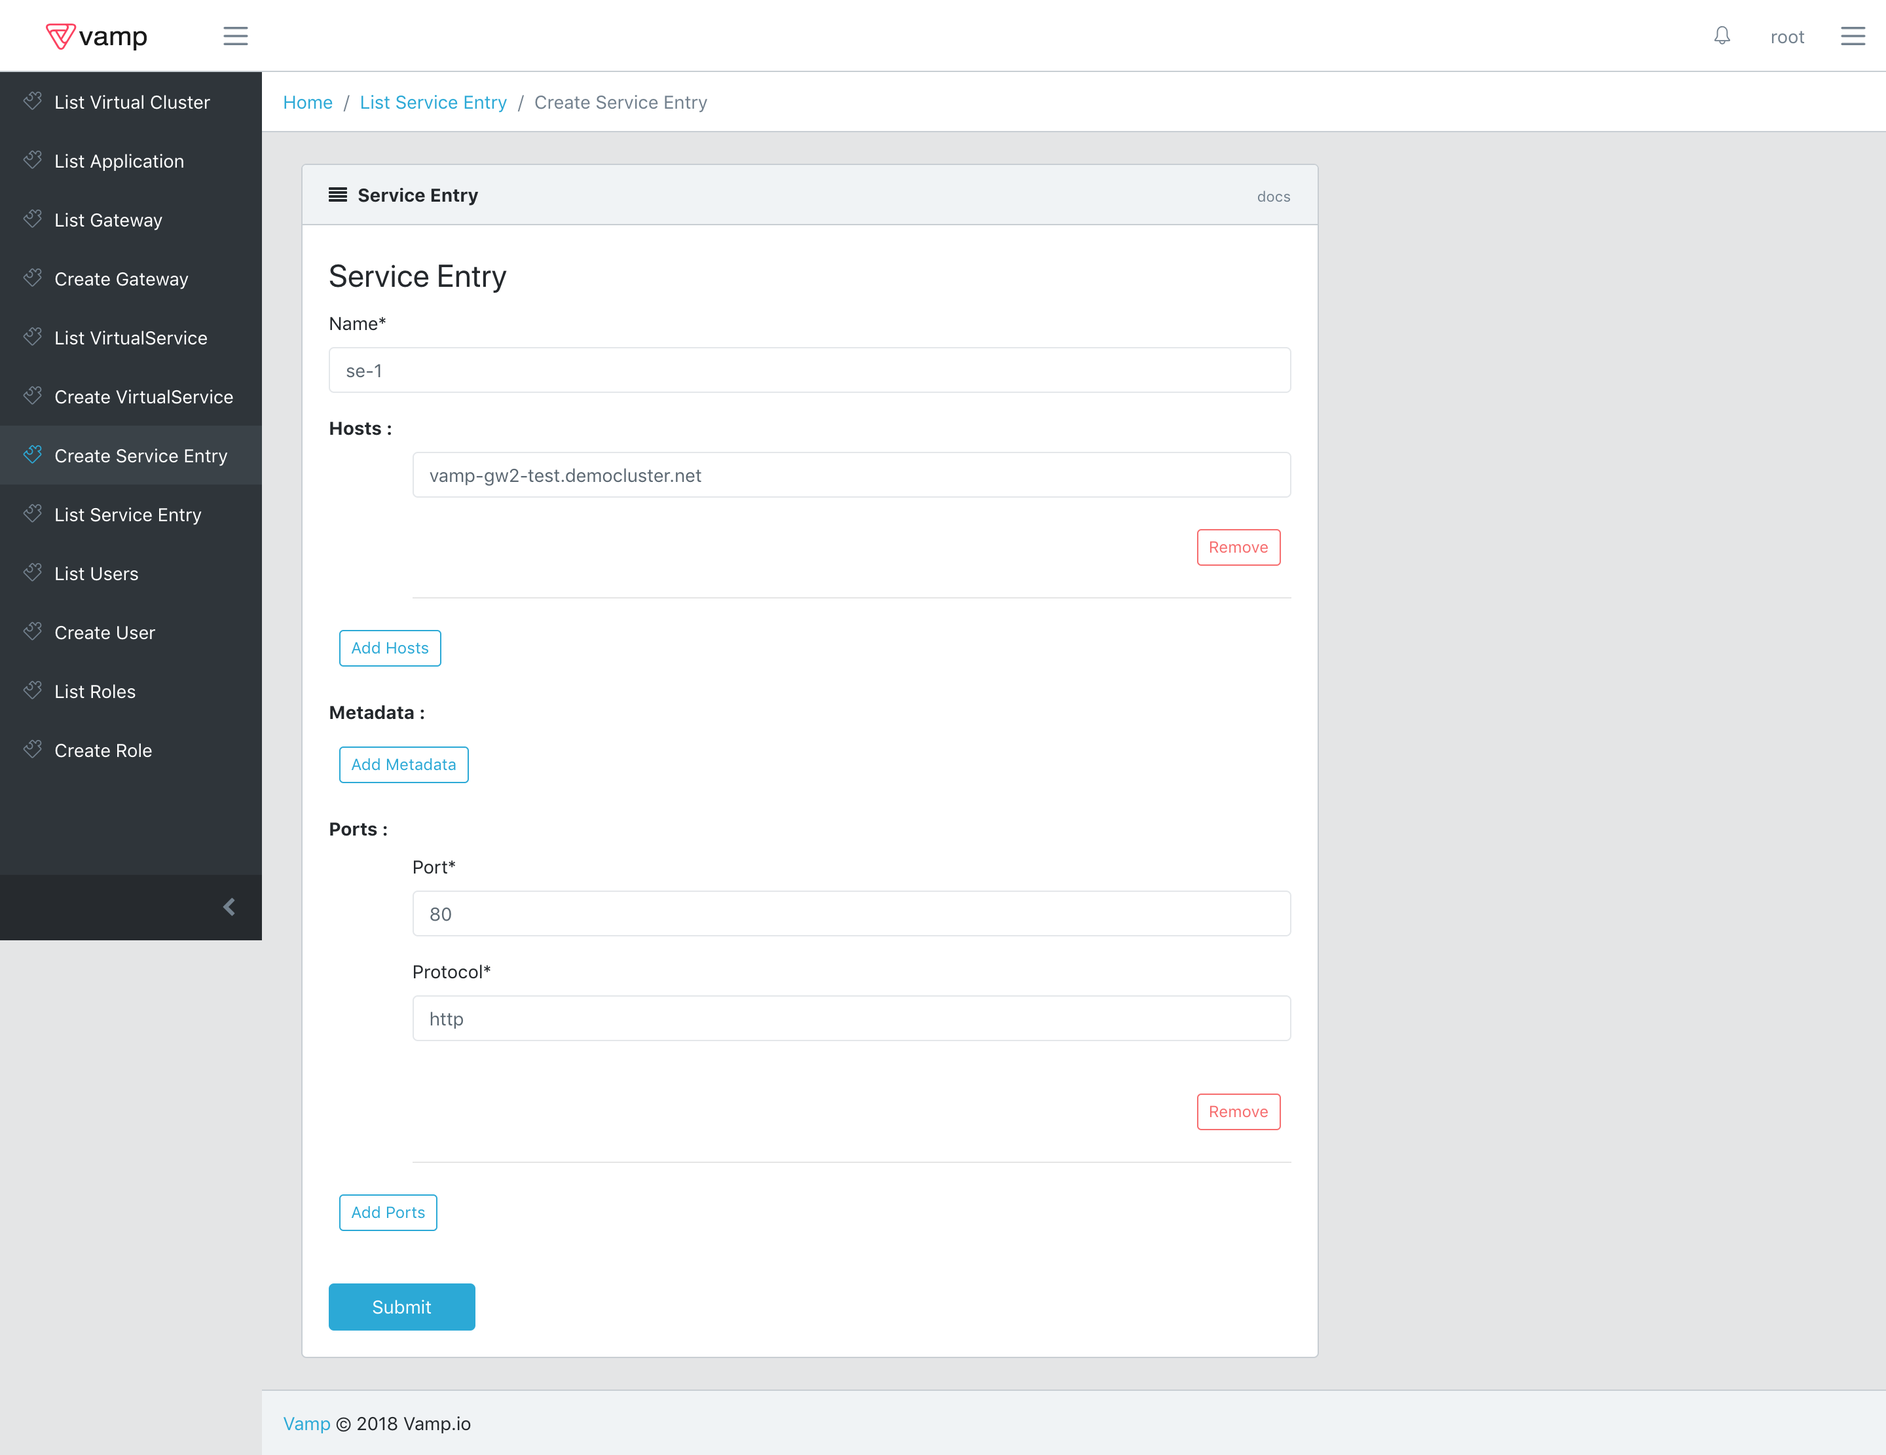
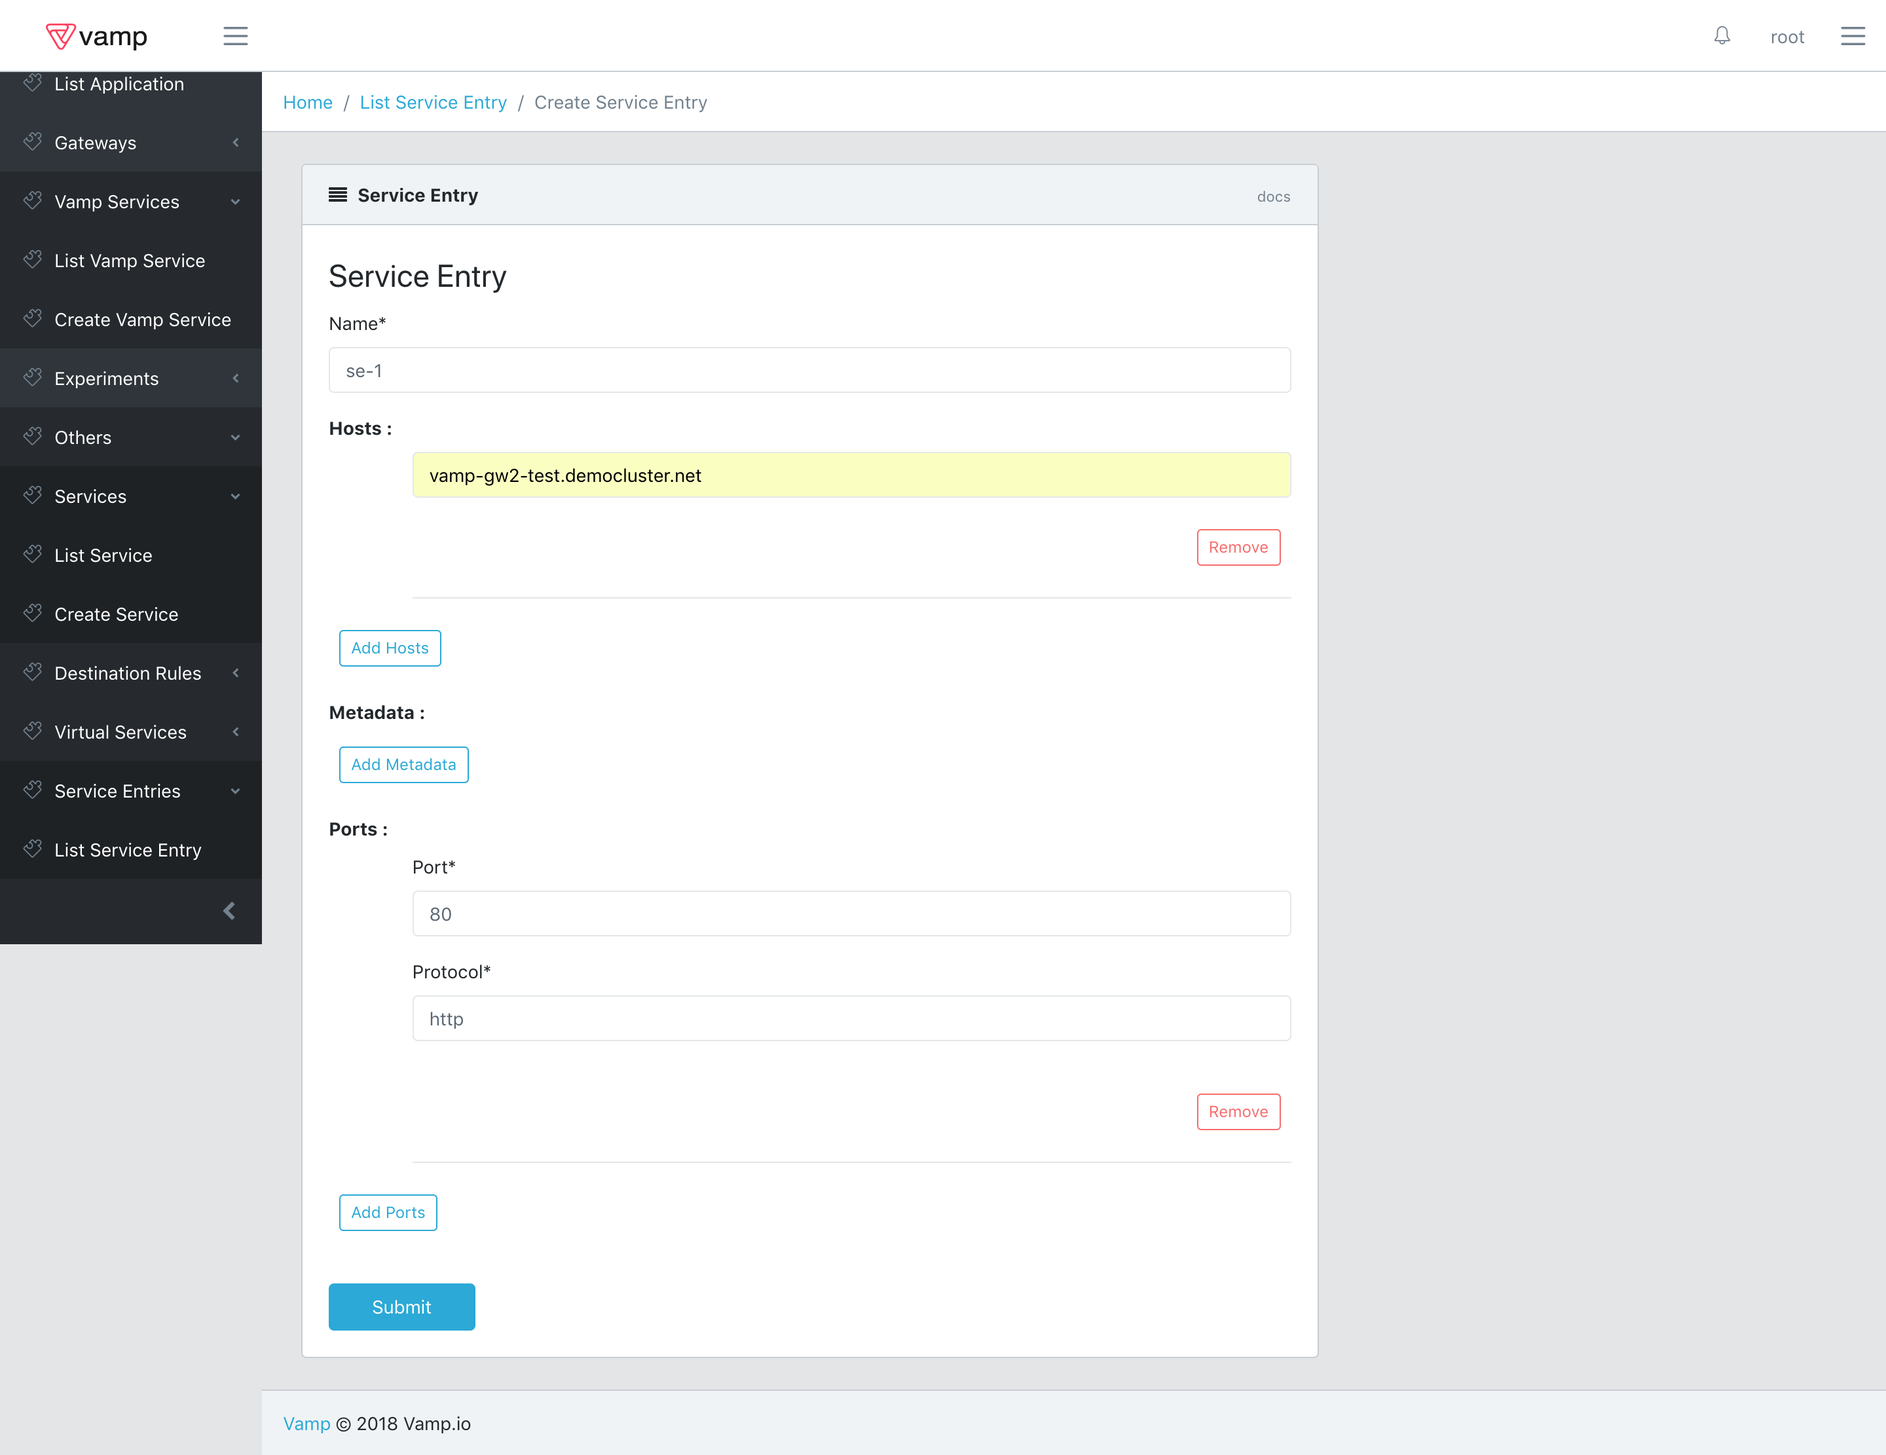
Updated readme and images to latest version

Changed region(s): [[0.0, 0.0311, 0.1562, 0.559], [0.2188, 0.3105, 0.6875, 0.3416], [0.0938, 0.6211, 0.125, 0.6521]]

diff --git a/README.md b/README.md
@@ -67,9 +67,9 @@ Running Vamp Lamia inside a cluster is pretty straightforward and it just requir
 ./vamp-bootstrap.sh
 ```
 
-Enter password when asked, password will not be visible and it will be asked twice.
+Enter a new password when asked and re-enter it for confirmation.
 
-Installer will tell you where to connect like:
+When the installation procedure is complete, the installer will tell you where to connect by printing an url similar to the one shown below:
 
 ```
 use http://111.222.333.444:8888/ui/#/login to connect
@@ -81,7 +81,7 @@ If you need to retrieve the IP afterwards you can do it via kubectl
 kubectl get svc vamp -n=vamp-system
 ```
 
-Copy the url and paste on your browser to login and start using.
+Copy the url and paste it on your browser to login and start using.
 
 The default username is root.
 
@@ -100,7 +100,7 @@ Once installed inside the cluster Vamp Lamia will automatically create a
 
 #### Out of Cluster installation
 
-If you'd rather have Vamp Lamia running outside the cluster, you can do that by running:
+If you'd rather have Vamp Lamia run outside the cluster, you should instead run:
 
 ```
 ./vamp-bootstrap.sh --outcluster  --dburl mongodb://someurl --dbname db-name
@@ -117,7 +117,7 @@ If you are instead running Lamia outside a Cluster there are a few extra steps y
 
 First of all you need to create a Project.
 A Lamia Project is simply an abstraction grouping one of more Clusters.
-Youc an create a Project by clicking on Create Project and filling out the form below, which, at this time, requires only the Project's name to be specified.
+You can create a Project by clicking on Create Project and filling out the form below, which, at this time, requires only the Project's name to be specified.
 
 ![](images/screen41.png)
 
@@ -238,8 +238,9 @@ Most of them overlap completely with Kubernetes or Istio entities, but some don'
 - **Gateway**: an Istio Gateway exposing an Application Service
 - **Destination Rule**: an Istio DestinationRule, which defines a subset of Deployments of one or several versions, based on common labels
 - **Virtual Service**: an Istio VirtualService, which handles routing of requests towards Services
+- **Vamp Service**: and abstraction that automatically sets up and manages a Service and its related Destination Rule and Virtual Service.
 - **Policy**: an automated process that periodically performs actions over an entity. Currently only used for Gateways. For more details refer to the [Performing a canary release](#performing-a-canary-release) section. 
-- **Experiment**: an automated process managing several resources involved in A/B testing a specific Service.
+- **Experiment**: an automated process managing several resources involved in A/B testing a specific Vamp Service.
 
 ## Performing a canary release
 
@@ -262,7 +263,7 @@ These labels are:
 - **cluster**: (optional) this is the name of the Cluster to which the Virtual Cluster belongs. Lamia creates this label will be automatically if it is missing.
 - **project**: (optional) this name of the Project to which the Virtual Cluster belongs. Lamia creates this label will be automatically if it is missing.
 
-Provided the first two labels are set, then once Lamia is deployed, it will import all the resources from a namespace into the current Project and Cluster and add the two optinal labels to the namespace if they are missing.
+Provided the first two labels are set, then, once Lamia is deployed, it will import all the resources from a namespace into the current Project and Cluster and add the two optinal labels to the namespace if they are missing.
 
 You can use the sample [namespace.yaml](samples/namespace.yaml) to create a Virtual Cluster called `vamp-tutorial`.
 
@@ -441,10 +442,11 @@ Once you have your Application running, you can create a Service and a Gateway t
 
 To do this using the UI, start by making sure that you have selected the Virtual Cluster and the Application that you want to expose.
 
-Now open the Service tab, click Create Service and enter the following data, as shown in the screenshot below.
+Now open the Service tab, click Others - Service - Create Service and enter the following data, as shown in the screenshot below.
 
-- **Service: Name**: the name of the service, use `vamp-tutorial-service` for the tutorial 
-- **Ports: Number**: the port on which the service will be exposed, use `9090` for the tutorial
+- **Name**: the name of the service, use `vamp-tutorial-service` for the tutorial 
+- **Selectors**: the selectors for the Service, corresponding to the kubernetes selectors. In this case it is referencing the app name 
+- **Ports: Number**: the port on which the Service will be exposed, use `9090` for the tutorial
 - **Ports: Target Port**: the port on which the container accepts traffic, use `9090` for the tutorial
 - **Ports: Protocol**: the network protocol the service uses, use `TCP` for the tutorial
 
@@ -559,8 +561,8 @@ You can also retrieve the virtual service using `kubectl` by running the followi
 kubectl get virtualservice vamp-tutorial-virtual-service -n vamp-tutorial
 ````
 
-You might have noticed that in the configuration, besides the Gateway you created, there's also another one, named mesh.
-Adding this Gateway enables the Virtual Service to be exposed internally.
+It is also possible to add an additional gateway called mesh to the Virtual Service configuration.
+Doing so enables the Virtual Service to be exposed internally, but mind the fact that it also requires you to provide a hostname, otherwise the Virtual Service creation will fail.
 
 ### Adding Routing Conditions
 
@@ -569,16 +571,12 @@ In order to do that you will have to edit the Virtual Service configuration you 
 Select List Virtual Service and click on edit.
 Now specify the following condition and hit submit.
 
-Open the Gateway tab, click List Gateway, select the gateway and click on edit.
-
-Then add the following condition and hit submit:
-
 ````
 header "User-Agent" regex "^.*(Chrome).*$"  or header "User-Agent" regex "^.*(Nexus 6P).*$"
 ````
 
 This will tell the Virtual Service to only pass requests to the Service when the `User-Agent` HTTP header contains either "Chrome" or "Nexus 6P".
-You can test the effect of this condition from a browser or with a tool like `cURL` that allows you to send HTTP requests towards your service.
+You can test the effect of this condition from a browser or with a tool like `cURL`.
 You can now check what happened on kubernetes by running the command:
 
 ````
@@ -589,7 +587,7 @@ You might also find yourself in a situation in which you want to specify differe
 In order to do that, click on the add button and you will be able to configure a new route with its own condition and set of weights.
 It is also important to note that this allows for the selection of different destinations, effectively granting the ability to direct traffic towards multiple Services.
 Fot those that dealt with Istio before or that tried the previous version of Vamp Lamia, this is a big change compared to Route Rules.
-In the route you added you can now specify the following condition:
+In the route you added, you can now specify the following condition:
 
 ````
 header "User-Agent" regex "^(?:(?!Chrome|Nexus 6P).)*$"
@@ -610,7 +608,7 @@ Let's now edit again the gateway and remove the conditions you just specified an
 It's time to try something a bit more complex.
 Vamp Lamia allow users to specify Policies on Virtual Services, i.e. automated processes than can alter the Virtual Service configuration over a period of time.
 When specifying a new Policy of this kind there are several options, let's start with the simplest one.
-Select List Virtual Service - edit and specify the values shown below in the Policies section, then submit.
+Select Others - Virtual Services - List Virtual Service - edit and specify the values shown below in the Policies section, then submit.
 
 ![](images/screen16.png)
 
@@ -759,10 +757,24 @@ You can now keep on experimenting with the Virtual Service, trying new things. K
 kubectl replace -f deployments.yaml
 ````
 
+### Vamp Services
+
+Setting up all of the above for every new service can be pretty tedious and time consuming. To solve this problem Vamp Lamia provides its users with the ability to create Vamp Services.
+Vamp Services are abstractions that group together a Service, a Destination Rule and a Virtual Service.
+To create a Vamp Service, select Vamp Service - Create Vamp Service from the menu and fill out the form as shown below.
+
+![](images/screen44.png)
+
+As you can see we are referencing app1 in the application and specifiying basically the same values we used in the Service, Virtual Service and Destination rule examples from the previous sections.
+Once you submit a new Service, Destination Rule and Virtual Service with the name vamp-service-1 will be created automatically.
+At this point you can add the new hostname defined in the Vamp Service specification to gateway gw-1 and you will be able to normally access the new Service.
+Note that currently Vamp Services do not support the policies we just shown for Virtual Services, although there are plans to implement them in the near future.
+On the other hand Vamp Services can use a much more powerful feature, that is Experiments.
+
 ### Creating an Experiment
 
 Experiments are a new feature introduced with Lamia 0.2.0.
-They allow to quickly set up virtual services for A/B testing of different versions.
+They allow to quickly set up A/B testing policies over different versions of the same service.
 In order to try out Experiments you can execute [demo-setup.sh](samples/experiment-demo/demo-setup.sh).
 If everything works correctly, this will produce the following output
 
@@ -772,15 +784,16 @@ deployment "deployment1" created
 deployment "deployment2" created
 ````
 
-At this point you will have a new namespace named vamp-demo containing two versions of a simple e-commerce, that wil be imported by Lamia into a single application.
-Now, before you can proceed with setting up the Experiment, you will first have to create a Service a Destination Rule and a Gateway for the Experment to use.
+At this point you will have a new namespace named vamp-demo containing two versions of a simple e-commerce, that wil be imported by Lamia into a single application named application.
+You will also notice a second application named vamp-datasource-app. It will be used in the next section, so you can ignore it for now.
+Now, before you can proceed with setting up the Experiment, you will first have to create a new Gateway and Vamp Service for the Experment to use.
 Since you already did that in the previous steps of this tutorial, you should be able to go through it quickly by referring to the configurations shown below.
+Just make sure to select the new Virtual Cluster vamp-demo before going onward.
+Also mind the fact that you should use a different hostname than the one we are using in the example.
 
 ![](images/screen23.png)
 
 ![](images/screen24.png)
-
-![](images/screen25.png)
 
 Once everything is ready you can set up the Experiment itself.
 Select Create Experiment and submit the following configuration.
@@ -789,17 +802,15 @@ Select Create Experiment and submit the following configuration.
 
 To clarify a bit what is going to happen when you submit, let's first go through the purpose of each field:
 
-- **Service Name**: the name of the Service on which you want to run the A/B testing.
-- **Service Port**: the Service port to use.
-- **Gateway Name**: the Gateway through which the Service will be exposed.
+- **Vamp Service Name**: the name of the Vamp Service on which you want to run the A/B testing.
 - **Period in minutes**: the time interval in minutes after which periodic updates to the configuration will happen.
 - **Step**: the amount by which the route's weights will shift at each update.
 - **Tags**: a descriptive value for a specific version of the service.
 - **Subset**: the subset of the service.
 - **Target**: the url that we want the users to reach to consider the test a success.
 
-When the form has been correctly filled and submitted the Experiment will first save its configuration and then create a Virtual Service with the same name.
-By clicking on List Virtual Service you will be able to see this new Virtual Service and check its configuration, although you won't be able to change it or delete it directly.
+When the form has been correctly filled and submitted the Experiment will first save its configuration and then update the related Vamp Service with a new configuration.
+By clicking on List Virtual Service and looking for the shop-vamp-service Virtual Service, you will be able to check its configuration, although you won't be able to change it or delete it directly.
 Below you can see how ths configuraiton should look:
 
 ![](images/screen27.png)
@@ -812,13 +823,8 @@ Thanks to our reliance on cookies, we are able to provide users with a consisten
 Depending on the test results, the policy defined on the Virtual Service will then move more users to more successful version, i.e. versions with a better ratio of users that reached the target over total number of users that reached the landing page.
 This is of course achieved by changing the weights of the Cookie Servers routes according to the Step value defined in the Experiment configuration.
 
-Besides the Virtual Service itself, the Experiment is also managing a set of other resources:
+Besides the Vamp Service itself, the Experiment is also managing one Cookie Server Deployment per Subset involved in the test.
 
-- one Cookie Server Deployment per Subset involved in the test.
-- a Service definition grouping the Cookie Servers.
-- a Destination Rule bound to the Cookie Servers' Service.
-
-All these resources are not visible in Lamia and will be automatically deleted when the Experiment is removed.
 
 ### Setting up a custom data source
 
@@ -845,7 +851,7 @@ If you run the [demo-setup.sh](samples/experiment-demo/demo-setup.sh) script in 
 
 ![](images/screen43.png)
 
-Compared to the configuration used in the previous example the notable differences are that in this case you will be specifying a Data Source Path with value **screencapture-localhost-8888-ui-2018-09-28-11_26_25.png**, to tell Vamp to use the data source exposed by that Service, and you will also add a new metadata with key **complexmetricsdriver** and value **custom** in order to have Lamia use the custom implementation of the metrics driver. 
+Compared to the configuration used in the previous example the notable differences are that in this case you will be specifying a Data Source Path with value **http://vamp-datasource.vamp-test1.svc.cluster.local:9090/stats**, to tell Vamp to use the data source exposed by that Service, and you will also add a new metadata with key **complexmetricsdriver** and value **custom** in order to have Lamia use the custom implementation of the metrics driver. 
 Once the experiment has been set up, it will behave in the same way as the previous one, but using the newly defined data source.
 
 ## Advanced Networking
@@ -869,7 +875,7 @@ By logging into vamp you will now be presented with the following situation.
 
 As you can see the Virtual Clusters have all been imported and by selecting them you will be able to see the Applications and the Deployments they contain.
 Let's now focus on Virtual Cluster vamp-test1.
-First of all let's select Application app1 and create a Service and Destination Rule.
+First of all let's create a new Service and Destination Rule for Application app1.
 
 ![](images/screen30.png)
 
@@ -896,7 +902,7 @@ Now, if you try calling the second hostname you will be sent to subset2 in the S
 At this point in the tutorial you succesfully mapped two hostnames to two separate subsets of a Service and are able to send requests to them from outside the Cluster.
 
 Having done that, let's try something else.
-Go back to List Virtual Cluster and select vamp-test2, then select Application app2 from List Application.
+Go back to List Virtual Cluster and select vamp-test2, as you can see we have an Application app2 running in this Virtual Cluster.
 This time you are going to create a single Virtual Service that will respond to a single hostname to the outside world and that will dispatch requests to either Service svc-1 or a new Service.
 Dispatching of the requests will be regulated by the url invoked and the url itself will be rewritten before making the actual call to the Service itself.
 Let's start with the easy stuff, that is creating the Service, Destination Rule and Gateway.
@@ -930,7 +936,7 @@ For reference you can find the full configuration below.
 If you try now to send requests to the specified hostname with the appropriate url you will be redirected to the correct Service.
 Our work with vamp-test2 is finished, let's now focus on the last Virtual Cluster: vamp-test3.
 In this Virtual Cluster, as shown in the initial graph, we want to allow access to Virtual Service vs-3 through Gateway gw-2 from outside the Cluster.
-**Note that this last example can be set up even on an entirely different cluster from which the original Cluster can be reached. We are limiting ourselves to use a Virtual Clutser for simplicty sake.
+**Note that this last example can be set up even on an entirely different cluster from which the original Cluster can be reached. We are limiting ourselves to use a Virtual Clutser for simplicty's sake.
 There Are however some real life scenarios in which you might actually want to do that, for example to take advantage of caching.**
 External services are normally not reachable from pods belonging to the Istio Mesh, hence we have to somehow make the host defined on Gateway gw-2 accessible. Service Entries are an Istio resource that can do just that.
 We are thus going to create one of them with this configuration.
